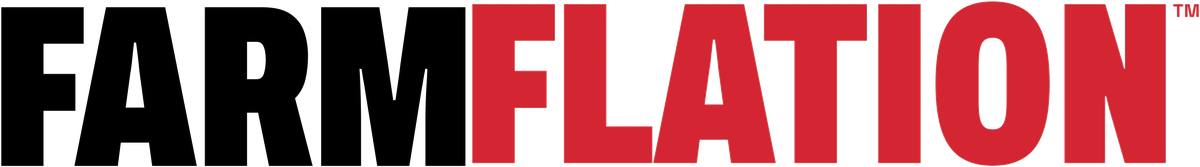
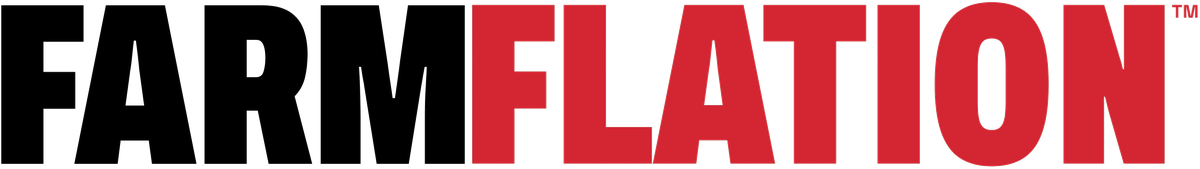
Corregir boton de adelanto y alineacion del wordmark del menu
- "Read the preview"/"Leer el adelanto" apuntaba a #relacion en vez
  de #adelanto (bug preexistente); ahora coincide con el link del
  menu y con el id real de la seccion.
- El wordmark en linea del menu (FARMFLATION) tenia a FLATION
  "flotando" mas arriba que FARM: el recorte anterior alineaba por
  el borde inferior del bounding box, pero la "O" de FLATION tiene
  overshoot optico (como cualquier letra redonda) que corre ese
  borde unos pixeles de mas. Se vuelve a extraer alineando por la
  linea de base real (tomada de la "F", que no tiene overshoot),
  asi que ahora FARM y FLATION quedan exactamente sobre la misma
  base.

diff --git a/es/index.html b/es/index.html
@@ -38,7 +38,7 @@
 <link rel="preconnect" href="https://fonts.googleapis.com">
 <link rel="preconnect" href="https://fonts.gstatic.com" crossorigin>
 <link href="https://fonts.googleapis.com/css2?family=Archivo+Narrow:wght@400;500;600;700&family=Space+Grotesk:wght@400;500;600;700&display=swap" rel="stylesheet">
-<link rel="stylesheet" href="../assets/css/style.css?v=28">
+<link rel="stylesheet" href="../assets/css/style.css?v=29">
 
 <script type="application/ld+json">
 {
@@ -68,7 +68,7 @@
 <header class="site-header">
   <div class="wrap">
     <div class="brand">
-      <a href="index.html" class="logo"><img src="../assets/img/farmflation-wordmark-inline.png" alt="Farmflation™" width="1200" height="167"></a>
+      <a href="index.html" class="logo"><img src="../assets/img/farmflation-wordmark-inline.png" alt="Farmflation™" width="1200" height="169"></a>
       <a href="https://www.instagram.com/farmflation" target="_blank" rel="noopener" aria-label="Instagram" class="brand-social">
         <svg viewBox="0 0 48 48" xmlns="http://www.w3.org/2000/svg"><rect x="3" y="3" width="42" height="42" rx="12" fill="none" stroke="currentColor" stroke-width="3"></rect><circle cx="24" cy="24" r="11" fill="none" stroke="currentColor" stroke-width="3"></circle><circle cx="36" cy="12" r="2.5" fill="currentColor"></circle></svg>
       </a>
@@ -103,7 +103,7 @@
         <p class="hero-tagline">«Su patrimonio está sembrado sobre un campo inflacionario. Este libro trata sobre qué plantar.»</p>
         <div class="hero-actions">
           <a href="#comprar" class="btn btn-on-red">Comprar en Amazon</a>
-          <a href="#relacion" class="btn btn-outline">Leer el adelanto ↓</a>
+          <a href="#adelanto" class="btn btn-outline">Leer el adelanto ↓</a>
         </div>
       </div>
       <div class="hero-art">

diff --git a/index.html b/index.html
@@ -38,7 +38,7 @@
 <link rel="preconnect" href="https://fonts.googleapis.com">
 <link rel="preconnect" href="https://fonts.gstatic.com" crossorigin>
 <link href="https://fonts.googleapis.com/css2?family=Archivo+Narrow:wght@400;500;600;700&family=Space+Grotesk:wght@400;500;600;700&display=swap" rel="stylesheet">
-<link rel="stylesheet" href="assets/css/style.css?v=28">
+<link rel="stylesheet" href="assets/css/style.css?v=29">
 
 <script type="application/ld+json">
 {
@@ -68,7 +68,7 @@
 <header class="site-header">
   <div class="wrap">
     <div class="brand">
-      <a href="#top" class="logo"><img src="assets/img/farmflation-wordmark-inline.png" alt="Farmflation™" width="1200" height="167"></a>
+      <a href="#top" class="logo"><img src="assets/img/farmflation-wordmark-inline.png" alt="Farmflation™" width="1200" height="169"></a>
       <a href="https://www.instagram.com/farmflation" target="_blank" rel="noopener" aria-label="Instagram" class="brand-social">
         <svg viewBox="0 0 48 48" xmlns="http://www.w3.org/2000/svg"><rect x="3" y="3" width="42" height="42" rx="12" fill="none" stroke="currentColor" stroke-width="3"></rect><circle cx="24" cy="24" r="11" fill="none" stroke="currentColor" stroke-width="3"></circle><circle cx="36" cy="12" r="2.5" fill="currentColor"></circle></svg>
       </a>
@@ -103,7 +103,7 @@
         <p class="hero-tagline">«Your wealth is already planted in inflationary soil. You can't choose the soil. You can choose what you plant.»</p>
         <div class="hero-actions">
           <a href="#comprar" class="btn btn-on-red">Buy on Amazon</a>
-          <a href="#relacion" class="btn btn-outline">Read the preview ↓</a>
+          <a href="#adelanto" class="btn btn-outline">Read the preview ↓</a>
         </div>
       </div>
       <div class="hero-art">

diff --git a/es/articulos.html b/es/articulos.html
@@ -22,14 +22,14 @@
 <link rel="preconnect" href="https://fonts.googleapis.com">
 <link rel="preconnect" href="https://fonts.gstatic.com" crossorigin>
 <link href="https://fonts.googleapis.com/css2?family=Archivo+Narrow:wght@400;500;600;700&family=Space+Grotesk:wght@400;500;600;700&display=swap" rel="stylesheet">
-<link rel="stylesheet" href="../assets/css/style.css?v=28">
+<link rel="stylesheet" href="../assets/css/style.css?v=29">
 </head>
 <body>
 
 <header class="site-header">
   <div class="wrap">
     <div class="brand">
-      <a href="index.html" class="logo"><img src="../assets/img/farmflation-wordmark-inline.png" alt="Farmflation™" width="1200" height="167"></a>
+      <a href="index.html" class="logo"><img src="../assets/img/farmflation-wordmark-inline.png" alt="Farmflation™" width="1200" height="169"></a>
       <a href="https://www.instagram.com/farmflation" target="_blank" rel="noopener" aria-label="Instagram" class="brand-social">
         <svg viewBox="0 0 48 48" xmlns="http://www.w3.org/2000/svg"><rect x="3" y="3" width="42" height="42" rx="12" fill="none" stroke="currentColor" stroke-width="3"></rect><circle cx="24" cy="24" r="11" fill="none" stroke="currentColor" stroke-width="3"></circle><circle cx="36" cy="12" r="2.5" fill="currentColor"></circle></svg>
       </a>

diff --git a/articles.html b/articles.html
@@ -22,14 +22,14 @@
 <link rel="preconnect" href="https://fonts.googleapis.com">
 <link rel="preconnect" href="https://fonts.gstatic.com" crossorigin>
 <link href="https://fonts.googleapis.com/css2?family=Archivo+Narrow:wght@400;500;600;700&family=Space+Grotesk:wght@400;500;600;700&display=swap" rel="stylesheet">
-<link rel="stylesheet" href="assets/css/style.css?v=28">
+<link rel="stylesheet" href="assets/css/style.css?v=29">
 </head>
 <body>
 
 <header class="site-header">
   <div class="wrap">
     <div class="brand">
-      <a href="index.html" class="logo"><img src="assets/img/farmflation-wordmark-inline.png" alt="Farmflation™" width="1200" height="167"></a>
+      <a href="index.html" class="logo"><img src="assets/img/farmflation-wordmark-inline.png" alt="Farmflation™" width="1200" height="169"></a>
       <a href="https://www.instagram.com/farmflation" target="_blank" rel="noopener" aria-label="Instagram" class="brand-social">
         <svg viewBox="0 0 48 48" xmlns="http://www.w3.org/2000/svg"><rect x="3" y="3" width="42" height="42" rx="12" fill="none" stroke="currentColor" stroke-width="3"></rect><circle cx="24" cy="24" r="11" fill="none" stroke="currentColor" stroke-width="3"></circle><circle cx="36" cy="12" r="2.5" fill="currentColor"></circle></svg>
       </a>
